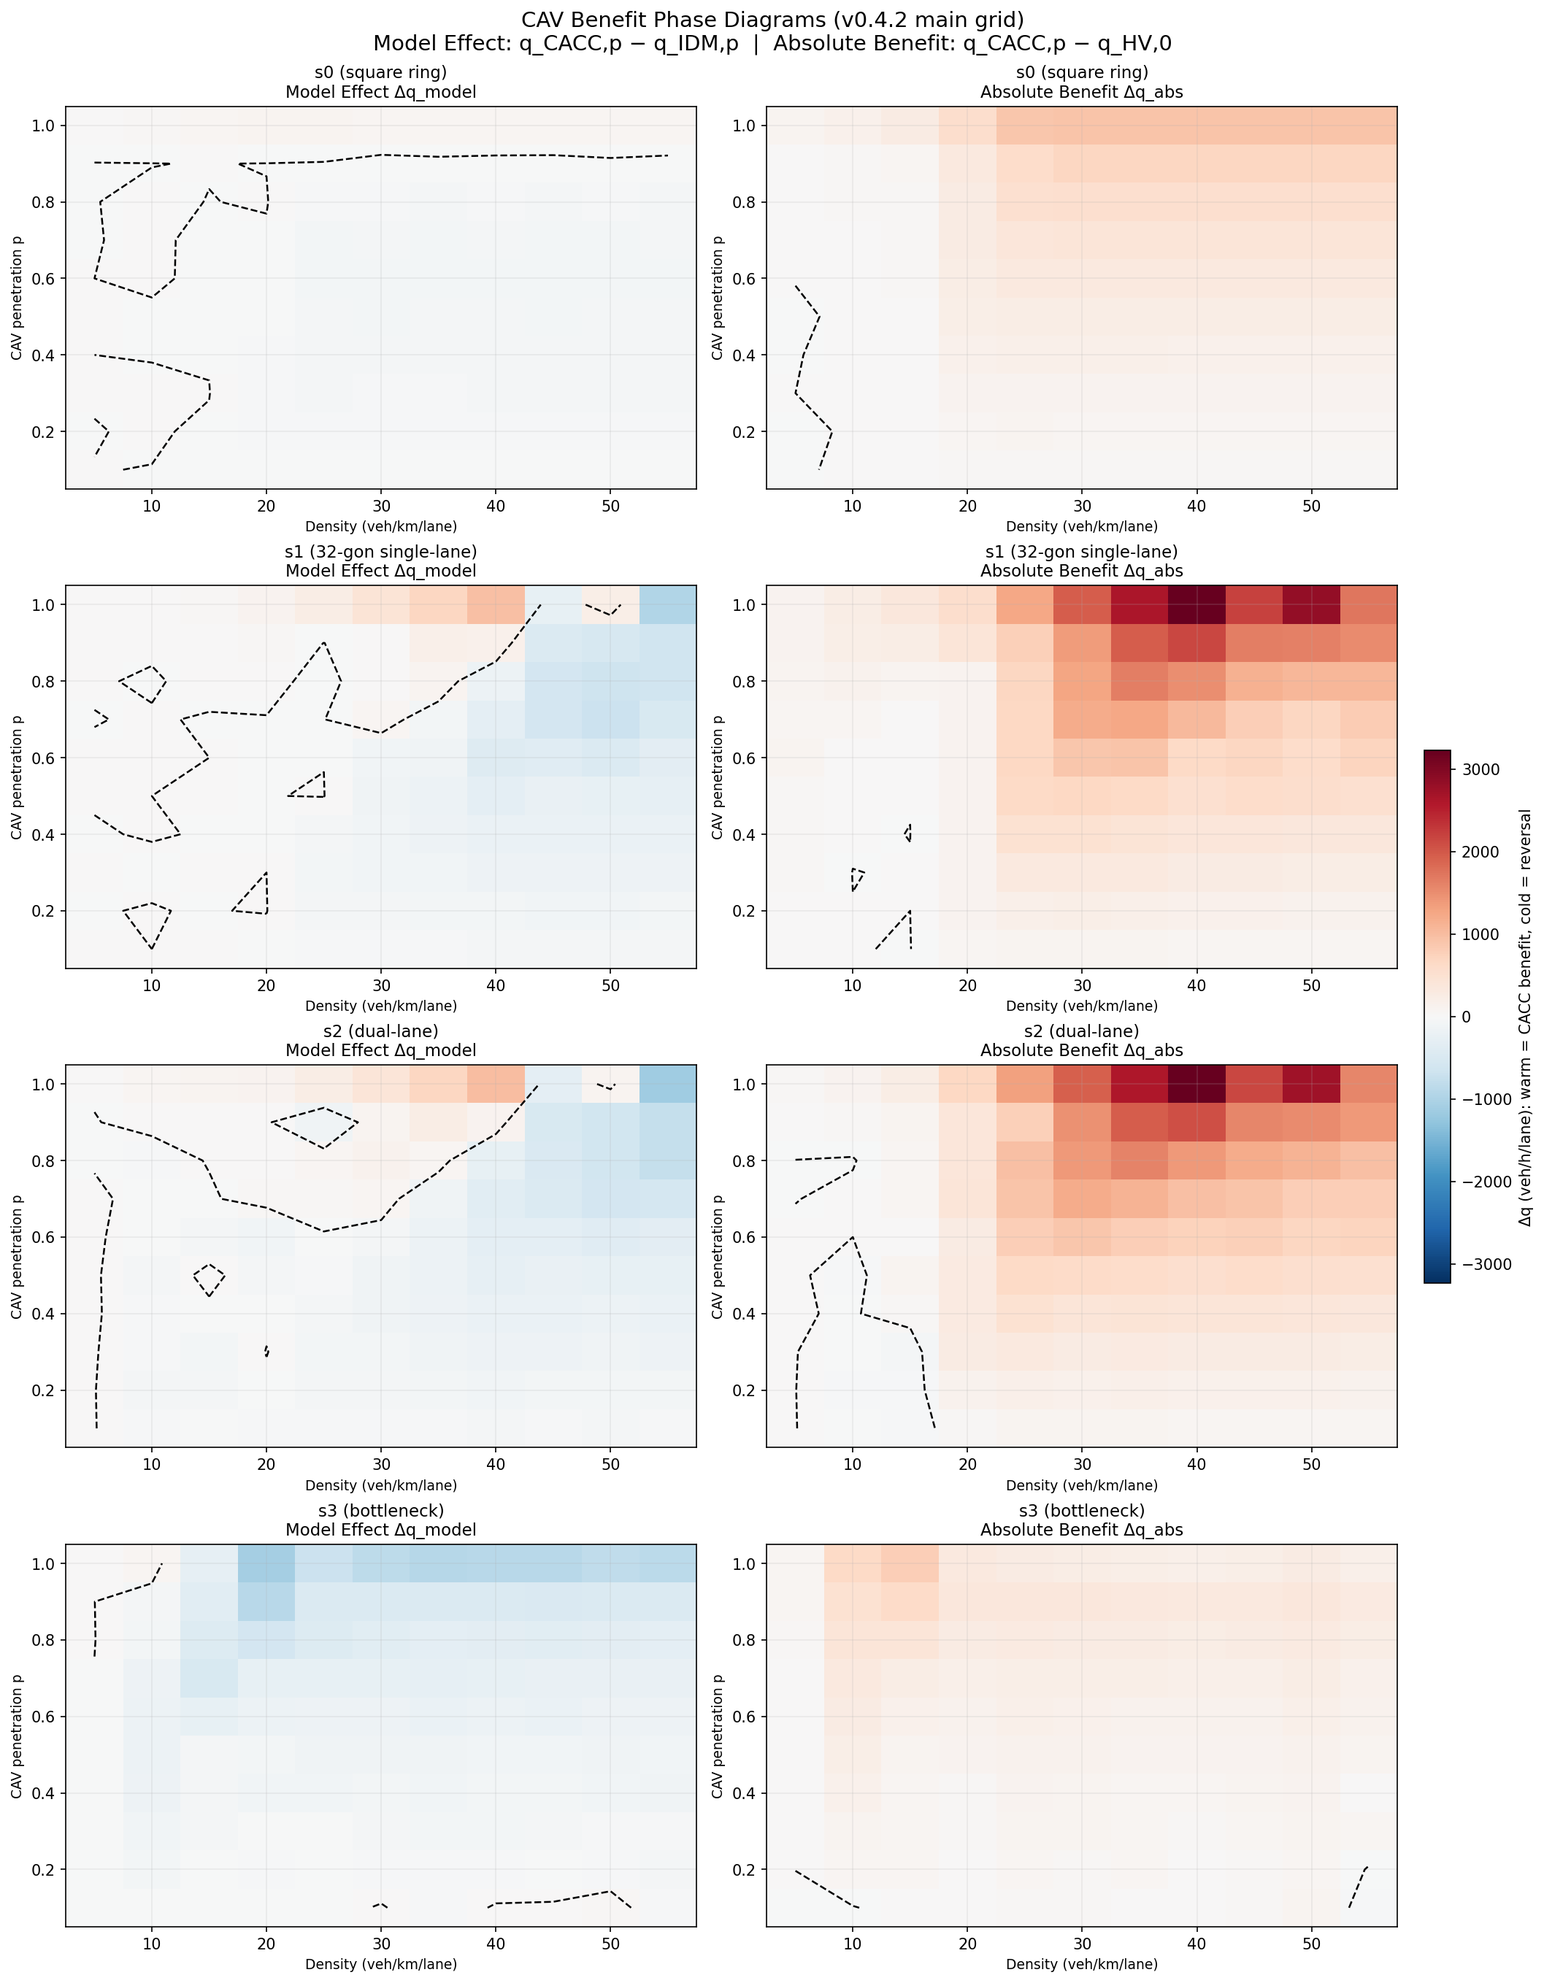
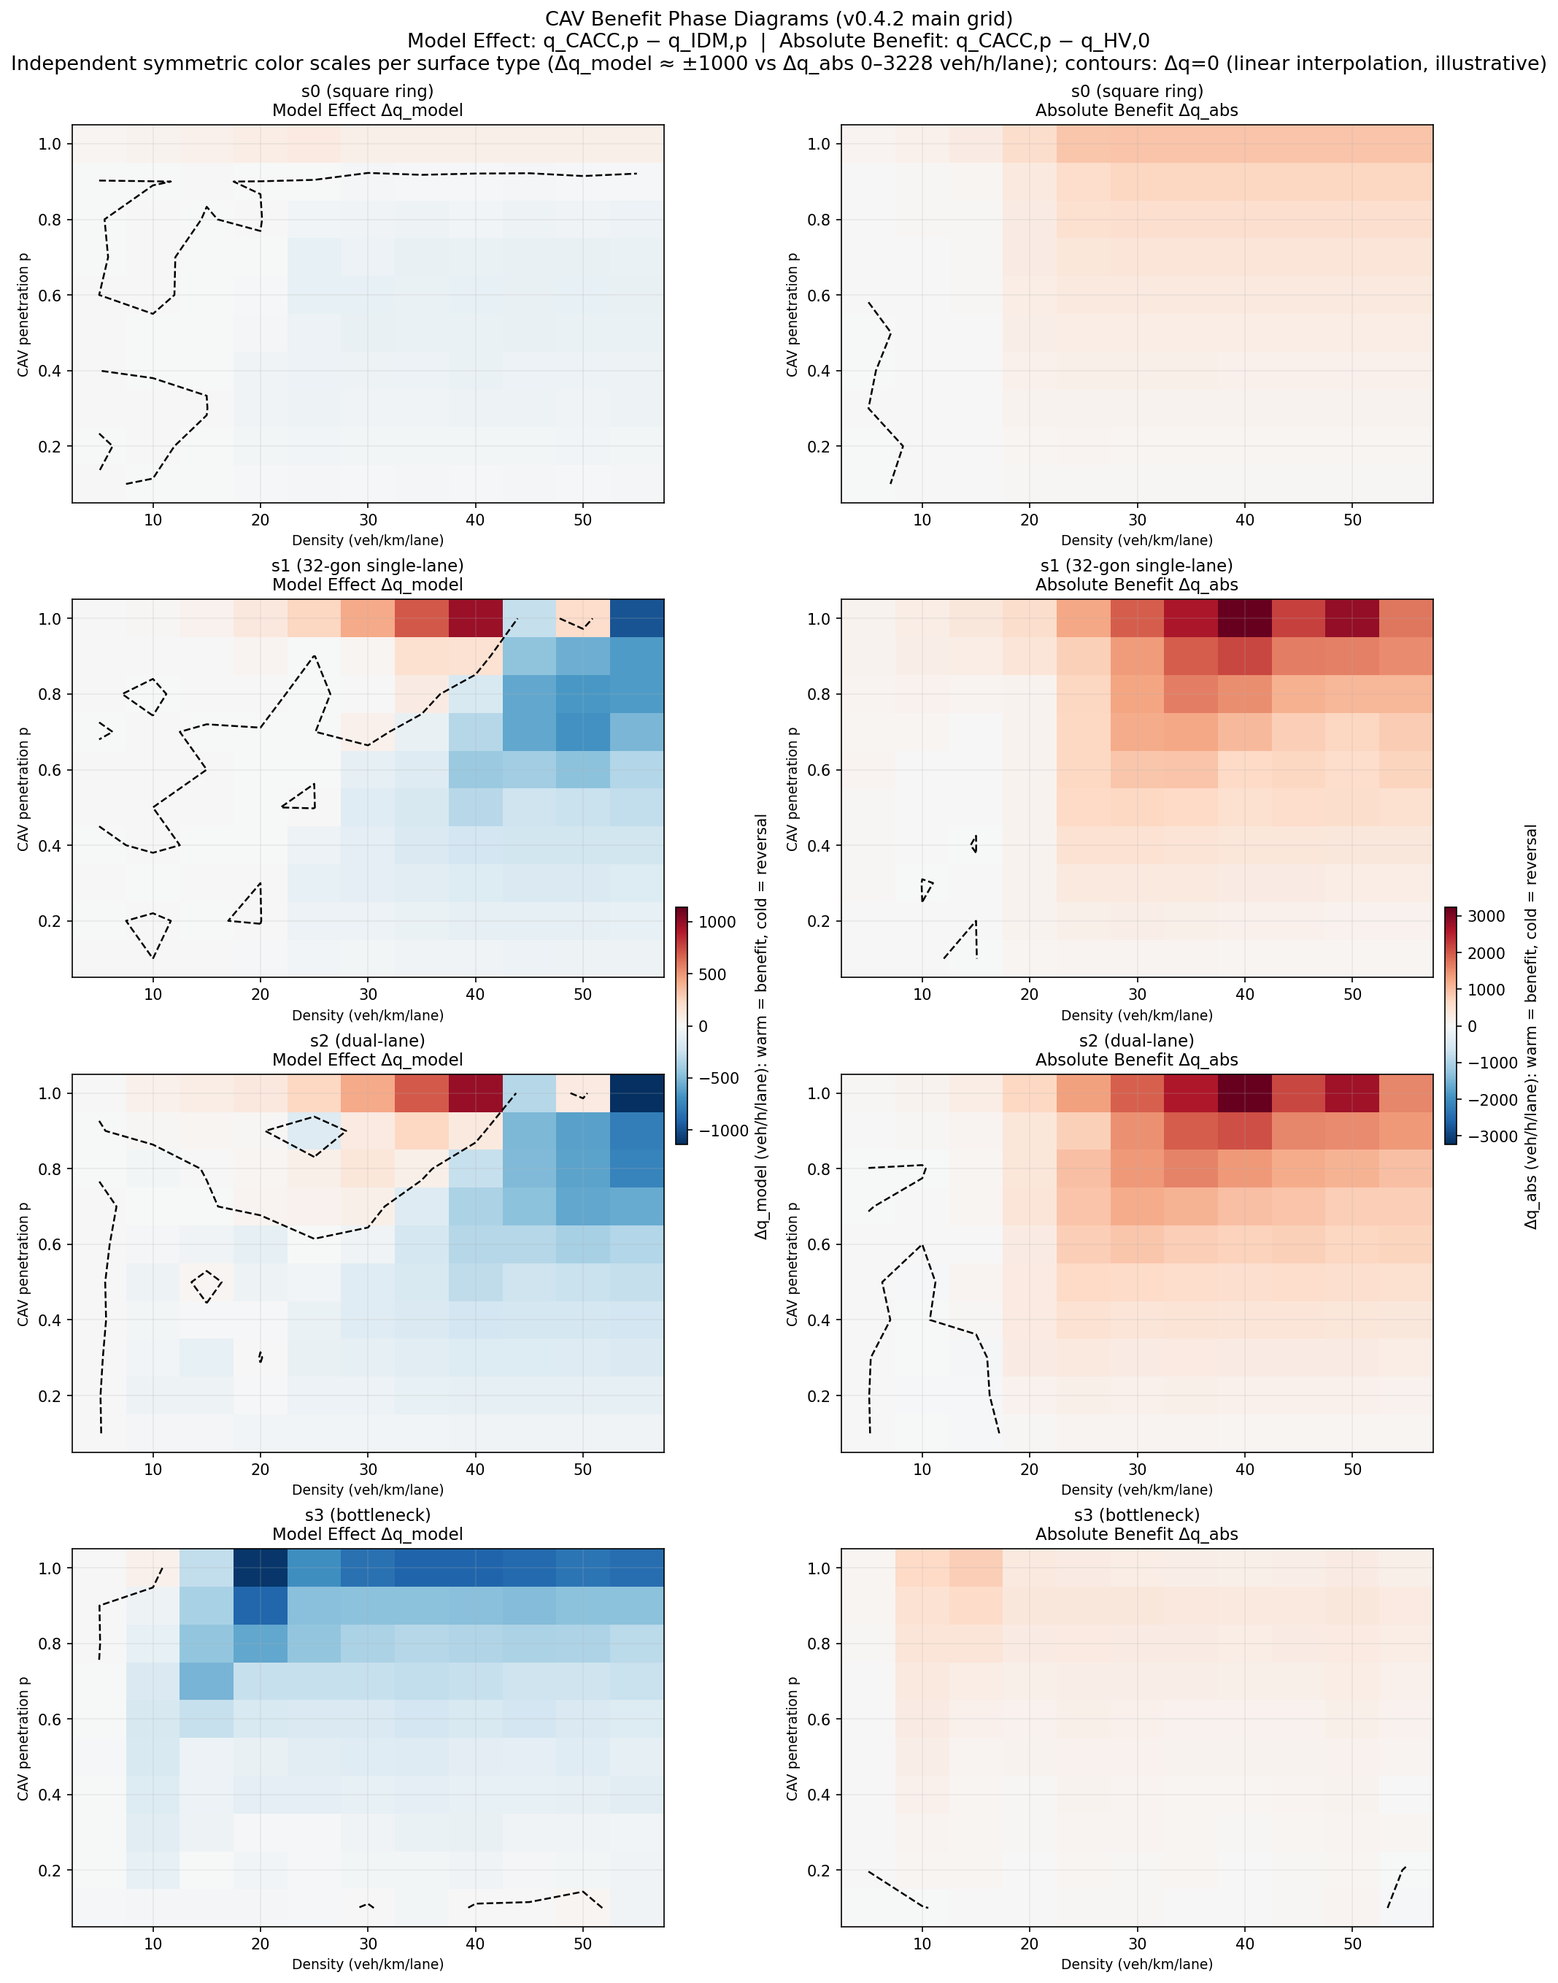
fix: 第十二轮审查处置——Pareto 声称方向更正 + 5 P2（分析层）
P1-1：README/report §5.1 Pareto 声称方向更正——s3 front 实为低-mid p 集中
（front pCAV 均值 0.473、p≥0.6 占比 33.3%、IDM 76.7%），非"集中于高 p"。
P2-1/P2-2：措辞修正（"p≥0.2 混合反转"、s1/s2 k≥45 no-crossing 披露）。
P2-3：双 Phase Diagram 独立对称色标（model/abs 各 vmax）+ 双 colorbar + 图注，
图重入库（321,208 → 358,681 B）。
P2-4：common.py 删除未用常量，P_STEP 标注口径文档常量。
P2-5：sensitivity 梯度物理间距 + README/report 三对拆分披露。
门禁 489 passed 保持；主链路零改动。

diff --git a/scripts/analysis/benefit_phase_diagram.py b/scripts/analysis/benefit_phase_diagram.py
@@ -98,23 +98,33 @@ def chart_phase_diagrams(delta_df: pd.DataFrame, out_dir: str | Path) -> Path:
     """双 Phase Diagram 一张图：场景行 × 2 曲面列（Model Effect | Absolute Benefit）。
 
     场景按数据中存在性数据驱动（SCENARIO_LABELS 顺序过滤），单场景 fixture
-    也可出图；行数 = 数据中的场景数。**色标为全局对称半宽**（跨场景×跨曲面
-    统一 vmax）——两曲面在同一 Δ 尺度下可比，图注与 colorbar 一致。
+    也可出图；行数 = 数据中的场景数。
+
+    色标（第十二轮 P2-3 修订）：**Model Effect 与 Absolute Benefit 各用独立对称
+    色标**（各自跨场景统一 vmax）——两曲面语义量级天然不同（model Δq ≈ ±1000
+    vs abs Δq 0–3228），强行同标尺会冲刷 model 面板可读性；同类型曲面跨场景
+    仍可比。图注声明两色标独立。
     """
     out = ensure_dir(out_dir)
     scenarios = [sc for sc in SCENARIO_LABELS if sc in set(delta_df["scenario"])]
     if not scenarios:
         raise ValueError("Δ 长表无场景数据")
-    # 先收集全部 surface + 计算全局 vmax（一次调用，避免重复 pivot）
+    # 先收集全部 surface + 分曲面类型计算全局对称 vmax（一次调用，避免重复 pivot）
     surfaces: dict[tuple[str, str], tuple[np.ndarray, np.ndarray, np.ndarray]] = {}
-    vmax = 0.0
+    vmax_model = 0.0
+    vmax_abs = 0.0
     for sc in scenarios:
         for col in (MODEL_DELTA_COL, ABS_DELTA_COL):
             dens, ps, mat = surface_matrix(delta_df, sc, col)
             surfaces[(sc, col)] = (dens, ps, mat)
             if np.isfinite(mat).any():
-                vmax = max(vmax, float(np.nanmax(np.abs(mat))))
-    vmax = max(vmax, 1e-9)
+                v = float(np.nanmax(np.abs(mat)))
+                if col == MODEL_DELTA_COL:
+                    vmax_model = max(vmax_model, v)
+                else:
+                    vmax_abs = max(vmax_abs, v)
+    vmax_model = max(vmax_model, 1e-9)
+    vmax_abs = max(vmax_abs, 1e-9)
     fig, axes = plt.subplots(
         len(scenarios), 2, figsize=(14, 4.5 * len(scenarios)), constrained_layout=True
     )
@@ -130,15 +140,29 @@ def chart_phase_diagrams(delta_df: pd.DataFrame, out_dir: str | Path) -> Path:
         ):
             ax = axes[row, col]
             dens, ps, mat = surfaces[(sc, delta_col)]
+            vmax = vmax_model if delta_col == MODEL_DELTA_COL else vmax_abs
             _draw_surface(ax, dens, ps, mat, title, vmax=vmax)
-    sm = plt.cm.ScalarMappable(cmap=plt.get_cmap("RdBu_r"), norm=plt.Normalize(-vmax, vmax))
-    sm.set_array([])
-    cbar = fig.colorbar(sm, ax=axes, orientation="vertical", fraction=0.02, pad=0.02)
-    cbar.set_label("Δq (veh/h/lane): warm = CACC benefit, cold = reversal", fontsize=10)
+    # 双色标（左列 model、右列 abs，各对称）
+    sm_model = plt.cm.ScalarMappable(
+        cmap=plt.get_cmap("RdBu_r"), norm=plt.Normalize(-vmax_model, vmax_model)
+    )
+    sm_model.set_array([])
+    cbar_model = fig.colorbar(
+        sm_model, ax=axes[:, 0], orientation="vertical", fraction=0.02, pad=0.02
+    )
+    cbar_model.set_label("Δq_model (veh/h/lane): warm = benefit, cold = reversal", fontsize=10)
+    sm_abs = plt.cm.ScalarMappable(
+        cmap=plt.get_cmap("RdBu_r"), norm=plt.Normalize(-vmax_abs, vmax_abs)
+    )
+    sm_abs.set_array([])
+    cbar_abs = fig.colorbar(sm_abs, ax=axes[:, 1], orientation="vertical", fraction=0.02, pad=0.02)
+    cbar_abs.set_label("Δq_abs (veh/h/lane): warm = benefit, cold = reversal", fontsize=10)
     fig.suptitle(
         "CAV Benefit Phase Diagrams (v0.4.2 main grid)\n"
-        "Model Effect: q_CACC,p − q_IDM,p  |  Absolute Benefit: q_CACC,p − q_HV,0",
-        fontsize=14,
+        "Model Effect: q_CACC,p − q_IDM,p  |  Absolute Benefit: q_CACC,p − q_HV,0\n"
+        "Independent symmetric color scales per surface type (Δq_model ≈ ±1000 vs "
+        "Δq_abs 0–3228 veh/h/lane); contours: Δq=0 (linear interpolation, illustrative)",
+        fontsize=13,
     )
     path = out / "chart_phase_diagrams.png"
     fig.savefig(path, dpi=150, bbox_inches="tight")

diff --git a/scripts/analysis/common.py b/scripts/analysis/common.py
@@ -35,17 +35,18 @@ import pandas as pd
 
 # 分析层只处理正式网格的 model 维度（IDM / CACC）；ACC 非正式比较对象，不入分析层。
 ANALYSIS_MODELS = ("IDM", "CACC")
-MODEL_BASELINE = "IDM"  # 同渗透率模型基线（Δq_model 的减数）
-HV_BASELINE = ("IDM", 0.0)  # 纯 HV 公共 reference：(model=IDM, pCAV=0)
+# 基线语义（口径定稿 1）在 compute_delta_frame 中内联：baseline_model = 同 p 的
+# IDM 行；baseline_abs = p=0 的 IDM（纯 HV）行——不设独立常量，避免死代码。
 
-# 渗透率档位（聚合 CSV 中 CACC 仅 p>0；IDM 含 p=0 sentinel）
+# 渗透率档位步长（口径文档常量：cav_count 0.1 步长 11 档；档位值由数据 pCAV 列
+# 驱动，p* 档位区间表达见 p_star_interval）
 P_STEP = 0.1
-P_LEVELS = tuple(round(i * P_STEP, 2) for i in range(11))  # 0.0 .. 1.0
 
 # 描述性区间 z 值（正态近似；非正式推断——口径定稿 3）
 INTERVAL_Z = 1.96
-REPLICATION_INTERIOR = 9  # interior cell 双 seed 组合数（3×3）
-REPLICATION_ENDPOINT = 3  # p=0 端点 assignment_seed 失活 → 3 个 sumo 组合
+# 双 seed 统计单位（口径定稿 3）：interior n=9 = 3 assignment × 3 sumo；端点
+# p=0 时 assignment_seed 失活 → n=3。实际 n 以 aggregated CSV 的
+# REPLICATION_COLUMN 列值为准（load_aggregated 对非 {3,9} 值发警告）。
 
 # ═══════════════════════════════════════════════════════════════════
 # 指标族规格

diff --git a/scripts/analysis/sensitivity_analysis.py b/scripts/analysis/sensitivity_analysis.py
@@ -115,14 +115,20 @@ def compute_threshold_stability(delta_df: pd.DataFrame) -> pd.DataFrame:
             a, b = p_star_by_k[k_sorted[i]], p_star_by_k[k_sorted[i + 1]]
             if (a is None) != (b is None) or (a is not None and b is not None and a != b):
                 jumps += 1
-        # 曲面梯度幅度（中央差分，边缘 NaN）
+        # 曲面梯度幅度（中央差分，边缘单边；第十二轮 P2-5 修订：np.gradient 传
+        # 物理间距——density 轴真实 veh/km/lane、p 轴真实渗透率，输出为物理单位
+        # 梯度（Δveh/h/lane per veh/km/lane / per p），与 interaction 的
+        # polyfit 斜率口径一致）
         piv = g.pivot_table(
             index="density_veh_per_km_lane", columns="pCAV", values=MODEL_DELTA_COL
         ).sort_index()
         grad_k, grad_p = np.nan, np.nan
         if piv.shape[0] >= 2 and piv.shape[1] >= 2:
-            grad_k = float(np.nanmax(np.abs(np.gradient(piv.to_numpy(dtype=float), axis=0))))
-            grad_p = float(np.nanmax(np.abs(np.gradient(piv.to_numpy(dtype=float), axis=1))))
+            dens_axis = piv.index.to_numpy(dtype=float)
+            p_axis = piv.columns.to_numpy(dtype=float)
+            arr = piv.to_numpy(dtype=float)
+            grad_k = float(np.nanmax(np.abs(np.gradient(arr, dens_axis, axis=0))))
+            grad_p = float(np.nanmax(np.abs(np.gradient(arr, p_axis, axis=1))))
         rows.append(
             {
                 "scenario": sc,

diff --git a/docs/report.en.md b/docs/report.en.md
@@ -232,29 +232,41 @@ Per-lane grid-observed peaks (veh/h/lane):
 Measured highlights (the Δq=0 contour is a linear interpolation between steps and
 is illustrative only; step-level thresholds are in the p*/k* tables below):
 
-- **s0/s1/s2 show no systematic reversal**: no reversal cells in p* detection
-  (s0: all 11 density levels gain/mixed; s1/s2: 5 gain + 4 mixed + 2 no-crossing),
-  while the Δq_model mean is negative (s0 −26 / s1 −93 / s2 −99 veh/h/lane) because
-  the high-density CACC deficit outweighs the low-density advantage — **higher peaks
-  and weaker equal-weight means coexist**, two conclusions supported by different
-  estimands (grid maximum vs equal-weight mean).
+- **s0/s1/s2 show no s3-style all-level reversal** (in the strict status sense: no
+  reversal cells — s0: all 11 density levels gain/mixed; s1/s2: 5 gain + 4 mixed + 2
+  no-crossing) — but **s1/s2 high-density k≥45 levels also lose at every penetration**
+  (no-crossing: Δq_model negative throughout, same nature as the s3 reversal cells
+  except the curve never crosses positive); cross-seed consistency of flow Δq_model
+  is reversal-majority in every scenario (s0 58/41/11, s1 53/47/10, s2 50/51/9,
+  reversal/mixed/gain, 110 cells/scenario); the equal-weight Δq_model mean is
+  negative (s0 −26 / s1 −93 / s2 −99 veh/h/lane) — **higher peaks and weaker
+  equal-weight means coexist**, supported by different estimands (grid maximum vs
+  equal-weight mean).
 - **s3 bottleneck reversal (core finding)**: high densities k∈{30,40,45,50} show
-  **reversal** (`p* ≤ 0.1` with `p_reversal_start ∈ (0.1, 0.2]` — any p>0 CACC mix
-  inverts throughput at the forced-merge bottleneck); k∈{15,20,25,35,55} show no
-  gain throughout (`p* > 1.0`); only low densities k=5/10 gain at high penetration
-  (`p* ∈ (0.7,0.8]` / `(0.9,1.0]`). **k\* reversal densities**: p=0.8/0.9 →
-  k* ∈ (5,10], p=1.0 → (10,15], p=0.1 → (30,35]; p∈{0.2,…,0.7} never gain. Effect
-  size corroborates: only 5.5% of s3 Δq_model Cohen's d values are positive, median
-  −2.01 (large reversal).
+  **reversal** (`p* ≤ 0.1` with `p_reversal_start ∈ (0.1, 0.2]` — **any p≥0.2 mix
+  inverts throughput at the forced-merge bottleneck**; the p=0.1 marginal cell has a
+  slightly positive point estimate (+3.5…+25.3 veh/h/lane) but its interval crosses
+  0, so no positive-benefit claim); k∈{15,20,25,35,55} never gain (`p* > 1.0`);
+  only low densities k=5/10 gain at high penetration (`p* ∈ (0.7,0.8]` /
+  `(0.9,1.0]`). **k\* reversal densities**: p=0.8/0.9 → k* ∈ (5,10], p=1.0 →
+  (10,15], p=0.1 → (30,35]; p∈{0.2,…,0.7} never gain. Effect size corroborates:
+  only 5.5% of s3 Δq_model Cohen's d values are positive, median −2.01 (large
+  reversal).
 - **Pareto** (four dimensions: max flow / min delay / min conflict / min CO₂, no
   hand-picked weights; comparisons are within the same (scenario, density) group —
-  density is an external demand parameter, not a design variable): no single globally
-  optimal penetration; the s3 front concentrates in the high-penetration range,
-  contrasting with s0/s1/s2 fronts spanning all p — different scenarios have different
-  Pareto-optimal regions.
-- **Sensitivity**: under alternative estimands (flow total vs per-lane, delay mean vs
-  p95, TTC vs DRAC) the p* step is unchanged in 109/132 cells — threshold conclusions
-  are robust to estimand choice.
+  density is an external demand parameter, not a design variable): all four fronts
+  span the full penetration range [0, 1.0] and there is no single globally optimal
+  penetration; **the s3 front is the smallest (60 points) and skews toward low- to
+  mid-penetration and IDM configurations** — front pCAV mean 0.473 (lowest of the
+  four), p≥0.6 share 33.3% (s0/s1/s2: 76.8%/59.3%/60.4%), IDM share 76.7% (highest):
+  the high-penetration CACC flow/delay deficit at the bottleneck makes those points
+  dominated within their density groups; s0/s1/s2 fronts carry higher high-p shares
+  — different scenarios have different Pareto-optimal regions.
+- **Sensitivity**: p* steps are unchanged in 109/132 cells under alternative
+  estimands — breakdown: flow total vs per-lane 44/44 unchanged (lane count is
+  constant within a scenario, so this pair is a scale-consistency check whose
+  invariance is expected); delay mean vs p95 34/44 and TTC vs DRAC 31/44 are the
+  discriminating contrasts — threshold conclusions are robust to estimand choice.
 
 **Interim scientific conclusion**: the CACC performance reversal is not an artifact
 of a few random seeds — the s3 high-density reversal reproduces consistently across

diff --git a/README.md b/README.md
@@ -192,10 +192,10 @@ The v0.4.2 analysis layer (`scripts/analysis/`, zero data re-runs — it consume
 
 Highlights (statistical stance: n=9 interior cells, effect size + descriptive intervals + cross-seed consistency — not formal significance tests; thresholds are step intervals, e.g. `p* ∈ (0.5, 0.6]`):
 
-- s0/s1/s2 show no systematic reversal; the negative equal-weight Δq_model mean coexists with higher grid-observed peaks (peak vs mean estimands differ).
-- **s3 bottleneck reversal**: high densities k∈{30,40,45,50} invert for any p>0 (`p* ≤ 0.1`, `p_reversal_start ∈ (0.1,0.2]`); reversal densities k* = (5,10]–(30,35] depending on p; p∈{0.2,…,0.7} never gain. Cohen's d median −2.01 (large).
-- Pareto (max flow / min delay / min conflict / min CO₂, no hand-picked weights, within-density comparison): no single globally optimal penetration — the s3 front concentrates at high p, s0/s1/s2 fronts span all p.
-- Threshold conclusions are robust to estimand choice (109/132 cells unchanged across flow total/per-lane, delay mean/p95, TTC/DRAC).
+- s0/s1/s2 show no s3-style all-level reversal (strict status sense: s0 all levels gain/mixed; s1/s2 5 gain + 4 mixed + 2 no-crossing) — but s1/s2 high-density k≥45 levels also lose at every penetration; the negative equal-weight Δq_model mean coexists with higher grid-observed peaks (peak vs mean estimands differ).
+- **s3 bottleneck reversal**: high densities k∈{30,40,45,50} invert for any p≥0.2 (`p* ≤ 0.1`, `p_reversal_start ∈ (0.1,0.2]`; p=0.1 marginal cell: positive point estimate, CI crosses 0); reversal densities k* = (5,10]–(30,35] depending on p; p∈{0.2,…,0.7} never gain. Cohen's d median −2.01 (large).
+- Pareto (max flow / min delay / min conflict / min CO₂, no hand-picked weights, within-density comparison): no single globally optimal penetration — all four fronts span [0,1.0], but the s3 front is the smallest (60) and skews low-to-mid p (front pCAV mean 0.473, p≥0.6 share 33.3% vs s0/s1/s2 59–77%): high-p CACC is dominated at the bottleneck. Different scenarios have different Pareto-optimal regions.
+- Threshold conclusions are robust to estimand choice (109/132 cells unchanged; breakdown: flow total/per-lane 44/44 scale-consistency — invariant by construction, delay mean/p95 34/44, TTC/DRAC 31/44).
 
 Full results: report §5.1 ([中文](docs/report.cn.md) / [English](docs/report.en.md)); analysis artifacts: `out/analysis/` (descriptive deltas, effect sizes, p*/k* tables, Pareto fronts, sensitivity), chart above in `graph/v0.4.2/`.
 
